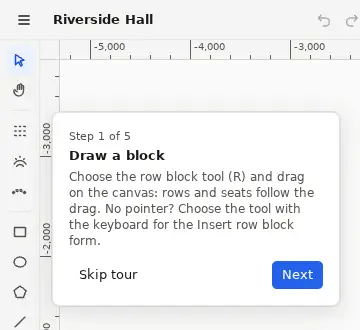
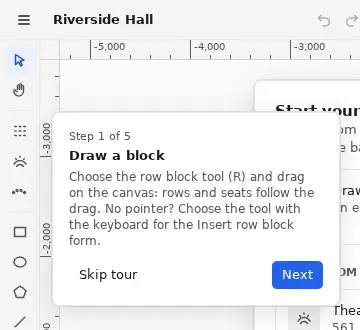
The designer guide starts charts from the New chart form and Start your chart; CON-005 done

diff --git a/apps/docs/designer/tasks.ts b/apps/docs/designer/tasks.ts
@@ -115,6 +115,20 @@ async function choose(t: Tab, name: string, option: string, within?: number): Pr
   await t.find({ role: "button", name: `${name} ${option}` }, within ?? (await inspector(t)));
 }
 
+/** A native select's option by its text, chosen as a person's choice would be, with its events. */
+async function select(t: Tab, id: number, option: string): Promise<void> {
+  await t.call(
+    id,
+    `function () {
+      const o = [...this.options].find((o) => o.text === ${JSON.stringify(option)});
+      if (!o) throw new Error(${JSON.stringify(`no option ${option}`)});
+      this.value = o.value;
+      this.dispatchEvent(new Event("input", { bubbles: true }));
+      this.dispatchEvent(new Event("change", { bubbles: true }));
+    }`,
+  );
+}
+
 /** Closes the notices in the corner, so pictures show only the designer. */
 async function quiet(t: Tab): Promise<void> {
   const region = (await t.all({ role: "region", name: "Cavea" }))[0];
@@ -214,6 +228,27 @@ export const TASKS: Task[] = [
       await t.enter({ role: "textbox", name: msg("charts.name") }, CHART.name, form);
       const key = await t.value(await t.find({ role: "textbox", name: msg("charts.key") }, form));
       check(key === CHART.key, `the key fills in as ${CHART.key}, not ${key}`);
+      // Start from: An empty chart unless changed; the templates and a reference image offered.
+      const start = await t.find({ role: "combobox", name: msg("charts.start") }, form);
+      const options = await t.call<string[]>(
+        start,
+        "function () { return [this.options[this.selectedIndex].text, ...[...this.options].map((o) => o.text)]; }",
+      );
+      const templates = [
+        msg("charts.startTemplate", { template: msg("template.theatre"), seats: "561" }),
+        msg("charts.startTemplate", { template: msg("template.arena"), seats: "1,680" }),
+        msg("charts.startTemplate", { template: msg("template.banquet"), seats: "156" }),
+      ];
+      check(
+        JSON.stringify(options) ===
+          JSON.stringify([
+            msg("charts.startBlank"),
+            msg("charts.startBlank"),
+            ...templates,
+            msg("charts.startImage"),
+          ]),
+        `Start from: ${JSON.stringify(options)}`,
+      );
       await shoot(t, "new-chart", await around(t, [form], 0));
       await t.click({ role: "button", name: msg("charts.create") }, form);
       await t.gone({ role: DIALOG });
@@ -234,6 +269,17 @@ export const TASKS: Task[] = [
       );
       await t.click({ role: "button", name: msg("tour.skip") }, tour);
       await t.gone({ role: "dialog", name: msg("tour.draw") });
+      // Start your chart, over the empty chart.
+      const panel = await t.find({ role: "region", name: msg("start.title") });
+      for (const name of [msg("new.empty"), msg("new.image")]) {
+        await t.find({ role: "button", name: new RegExp(`^${name}`) }, panel);
+      }
+      for (const id of ["theatre", "arena", "banquet"] as const) {
+        await t.find({ role: "button", name: new RegExp(`^${msg(`template.${id}`)} `) }, panel);
+      }
+      await t.find({ role: "button", name: msg("start.close") }, panel);
+      await t.find({ role: "button", name: msg("menu.open") }, panel);
+      await shoot(t, "start", await around(t, [panel], 16), 0.75);
     },
   },
   {
@@ -1149,31 +1195,48 @@ export const TASKS: Task[] = [
     },
   },
   {
-    name: "start.md: from a template: Open the designer, Theatre, Export chart file, Import chart file",
-    async run({ t, shoot, out }) {
+    name: "start.md: a chart from the Theatre template; Starting points…, Replace and undo; Export and Import chart file",
+    async run({ t, out }) {
+      const name = "Studio theatre";
       await t.goto(`${new URL(await t.evaluate<string>("location.href")).origin}/charts`);
-      await t.click({ role: "button", name: msg("charts.openDesigner") });
-      const theatre = await t.find(
-        { role: "button", name: new RegExp(`^${msg("template.theatre")} `) },
-        undefined,
-        30_000,
-      );
-      const empty = await t.find({ role: "button", name: new RegExp(`^${msg("new.empty")}`) });
-      const heading = await t.find({ role: "heading", name: msg("new.title") });
-      const banquet = await t.find({
-        role: "button",
-        name: new RegExp(`^${msg("template.banquet")} `),
+      await t.click({ role: "button", name: msg("charts.new"), nth: 0 });
+      const form = await t.find({ role: DIALOG, name: msg("charts.newTitle") });
+      await t.enter({ role: "textbox", name: msg("charts.name") }, name, form);
+      const theatre = msg("charts.startTemplate", {
+        template: msg("template.theatre"),
+        seats: "561",
       });
-      const image = await t.find({ role: "button", name: new RegExp(`^${msg("new.image")}`) });
-      await shoot(t, "start", await around(t, [heading, empty, image, theatre, banquet], 16), 0.75);
-      await t.click({ role: "button", name: new RegExp(`^${msg("template.theatre")} `) });
-      await t.find(
-        { role: "application", name: msg("canvas.label", { name: msg("template.theatre") }) },
-        undefined,
-        30_000,
+      await select(t, await t.find({ role: "combobox", name: msg("charts.start") }, form), theatre);
+      await t.click({ role: "button", name: msg("charts.create") }, form);
+      await t.gone({ role: DIALOG });
+      await t.click({ role: "link", name });
+      await t.click({ role: "link", name: msg("charts.open") });
+      await t.find({ role: "application", name: msg("canvas.label", { name }) }, undefined, 30_000);
+      const seats = (n: string) => (text: string) => text.includes(msg("status.seats", { n }));
+      await status(t, "561 seats", seats("561"));
+      check(
+        !(await t.has({ role: "region", name: msg("start.title") })),
+        "no starting points over a template",
       );
-      await t.click({ role: "button", name: msg("tour.skip") }).catch(() => undefined);
-      // What the browser saves, as the download would: the file's name and text.
+      // Menu, Starting points…, a template: asked first, replaced, one undo back.
+      const banner = await t.find({ role: "banner" });
+      await t.click({ role: "button", name: msg("menu.label") }, banner);
+      await t.find({ role: "menuitem", name: msg("menu.open") });
+      await t.click({ role: "menuitem", name: new RegExp(`^${msg("start.menu")}`) });
+      await t.click({ role: "button", name: new RegExp(`^${msg("template.banquet")} `) });
+      const ask = await t.find({
+        role: DIALOG,
+        name: msg("start.replaceTitle", { name, template: msg("template.banquet") }),
+      });
+      await t.click({ role: "button", name: msg("start.replace") }, ask);
+      await status(t, "156 seats", seats("156"));
+      await chord(t, "z", CTRL);
+      await status(t, "561 seats again", seats("561"));
+      await saveState(t, msg("save.saved"));
+      // Export chart file from the chart's menu on Charts: what the browser saves.
+      await t.click({ role: "button", name: msg("menu.label") }, banner);
+      await t.click({ role: "menuitem", name: msg("menu.console") });
+      await t.find({ role: "heading", name: msg("charts.title") });
       await t.evaluate(`(() => {
         const click = HTMLAnchorElement.prototype.click;
         const make = URL.createObjectURL;
@@ -1184,9 +1247,8 @@ export const TASKS: Task[] = [
           return click.call(this);
         };
       })()`);
-      const banner = await t.find({ role: "banner" });
-      await t.click({ role: "button", name: msg("menu.label") }, banner);
-      await t.click({ role: "menuitem", name: new RegExp(`^${msg("menu.export")}`) });
+      await t.click({ role: "button", name: msg("charts.menu", { name }) });
+      await t.click({ role: "menuitem", name: msg("charts.export") });
       const saved = await until("the chart file to be saved", () =>
         t
           .evaluate<{ name: string; text: string } | null>("window.saved ?? null")
@@ -1195,18 +1257,15 @@ export const TASKS: Task[] = [
       check(saved.name.endsWith(".json"), `the exported file ends in .json: ${saved.name}`);
       const file = join(out, saved.name);
       await Bun.write(file, saved.text);
-      await t.click({ role: "button", name: msg("menu.label") }, banner);
-      await t.click({ role: "menuitem", name: msg("menu.console") });
-      await t.find({ role: "heading", name: msg("charts.title") });
       await t.send("Page.setInterceptFileChooserDialog", { enabled: true });
       await t.click({ role: "button", name: msg("charts.import") });
       await pick(t, 'input[type=file][accept=".json,application/json"]', file);
       await t.send("Page.setInterceptFileChooserDialog", { enabled: false });
-      const form = await t.find({ role: DIALOG, name: msg("charts.importTitle") });
-      await t.enter({ role: "textbox", name: msg("charts.name") }, "Studio theatre", form);
-      await t.click({ role: "button", name: msg("charts.create") }, form);
+      const imported = await t.find({ role: DIALOG, name: msg("charts.importTitle") });
+      await t.enter({ role: "textbox", name: msg("charts.name") }, "Studio theatre copy", imported);
+      await t.click({ role: "button", name: msg("charts.create") }, imported);
       await t.gone({ role: DIALOG });
-      await t.find({ role: "link", name: "Studio theatre" });
+      await t.find({ role: "link", name: "Studio theatre copy" });
     },
   },
 ];

diff --git a/apps/console/src/console/Settings.tsx b/apps/console/src/console/Settings.tsx
@@ -378,7 +378,7 @@ function MembersTab() {
                     <tr>
                       {memberSort.header("email", complete(members))}
                       {memberSort.header("role", complete(members))}
-                      <th scope="col" class={th}>
+                      <th scope="col" class={`${th} whitespace-nowrap`}>
                         {msg("members.colTwoStep")}
                       </th>
                       <th scope="col" class={th}>

diff --git a/docs/TODO.md b/docs/TODO.md
@@ -324,7 +324,7 @@ Do not start a milestone until the previous one's exit criteria are met.
 - [x] **CON-002** First-run setup with a one-time link (09 §2). The logged link, `POST /console/api/setup`, one owner under a race, owner of every workspace (D-51); the `/console/setup` page takes the token from the fragment at start, removes it from the address bar, and lands the owner signed in
 - [x] **CON-003** Sign-in, sessions, CSRF, optional TOTP (09 §2, §10). Server: argon2id, `/console/api/session`, `me`, `password`, the `__Host-` cookie with idle and absolute ends, CSRF and origin checks on every cookie mutation (08 §11, D-50); the second factor and password reset (D-89, D-90). Console: sign-in (one message for a wrong email or password, `Retry-After` waited out) with its second step (a code from the app or a recovery code; a dead challenge back to the password with the email kept), sign-out, the session from `me` at start, a lost session sending the person to sign-in and back, the password change; the account page's two-step sign-in (turn on with a QR code of our own encoder and the key as text, D-92; recovery codes shown once with copy, download and print; turn off); the members screen's sign-in help (a reset link, optionally clearing the factor, shown once; resetting a member's factor; the server's refusals said); the reset link's page; the CSRF header and the dev proxy (09 §9). Not shown: who has a second factor on in the members list (the server's `WorkspaceMember` does not say)
 - [x] **CON-004** Roles and permission checks on every route (09 §2). The server side: every secret-key route takes a console session, names its workspace in `Cavea-Workspace` and declares one of twelve permissions, one per cell of 09 §2, checked against the five roles by the authorisation matrix (08 §11, D-54); ownership transfer is the members routes' `ownership`. The console shows only the sections and actions the role allows (from `me`'s permissions against each operation's `x-cavea-permission`; a test holds it to the document's roles), says why a disabled action is disabled, and shows a server's `403` `role` and re-reads `me`
-- [ ] **CON-005** Charts list with thumbnails, search, card menu, empty state (09 §3.1). Built: cards (name, key, seats and version when published, last edited, archived), search by name or key, sort by name or last edited, archived on request, empty, loading and error states, create, import from a chart file, and a card menu with export, duplicate and archive. Open in designer in the card menu (DSN-035). Thumbnails shown (the published version's, DSN-040; a placeholder without one). The empty state's starting points and **Start from** in **New chart** (templates, a reference image; D-95). Owed: events per chart on the card, which needs the server to count them (`events: {active, archived}` on each chart of `GET /v1/charts`, or a `total` on the events list; one request per card would stop at a page)
+- [x] **CON-005** Charts list with thumbnails, search, card menu, empty state (09 §3.1). Built: cards (name, key, seats and version when published, last edited, archived), search by name or key, sort by name or last edited, archived on request, empty, loading and error states, create, import from a chart file, and a card menu with export, duplicate and archive. Open in designer in the card menu (DSN-035). Thumbnails shown (the published version's, DSN-040; a placeholder without one). The empty state's starting points and **Start from** in **New chart** (templates, a reference image; D-95). Events per chart on the card and the chart page, linking to its Events tab, from the chart object's `events: {active, archived}`, which the server counts for every chart it returns (migration 10's index; 08 §6.2)
 - [ ] **CON-006** Chart detail: versions, events, settings (09 §3.2). Built: `/charts/{key}` from a card's name; the header (name, the key with a copy button, published version and seats, unpublished changes, archived); Versions (newest first, seats and date, the published one marked, "Create event" with the chart and version chosen); Events by the server's filter (`GET /v1/events?chart=`, paged, each linking to the event's page); Settings (the fixed key, archive with a confirmation). Open designer in the header (DSN-035). A version's author (**Published by**: the email to owners and admins while the publisher is a member, else what they were). Versions sort in the page once whole, Events by creation through the server (D-94). Owed: the diff link, which has no server support (`GET …/versions/{number}/diff`, SRV-036)
 - [ ] **CON-007** Events list and create form (09 §4.1). Built: the table (an event's name opens its page, CON-008) (name, key, chart and version, booked, held and free with a bar from the list's `counts`, created, status), paged with "load more", searched by key or name, filtered by chart and active or archived, and ordered oldest or newest first by the server (`q`, `chart`, `archived`, `order`), typing debounced, superseded requests cancelled, the view kept in the URL; archive with a confirmation; and the create form (key from the name, chart, version defaulting to the published one, hold lifetime, seats per hold token, session token and tokens per session, each with its unit and the server's limits; refusals on their fields). and the creation-date range (Created from, Created until: days in the person's time zone sent as instants, kept in the URL, an inverted range refused before sending; D-93). Open, waiting on the server: the orphan policy and public best-available on the create form, which 09 §4.1 lists but the server has no settings for (a later milestone's engine and API work), so the entry stays open
 - [x] **CON-008** Event manager, basic: live map, inspect, select, block, release, book (09 §4.2). `/events/{key}`, full window: the renderer in picker mode on a `customState` adapter that draws free seats available and the rest unavailable, any seat selectable (a seat is drawn available while selected); the true status in the tooltip, the selection list and the details (status, order reference, ticket type, hold expiry); Block, Unblock, Book (order reference) and Release (confirmed), all or nothing, refusals naming their seats with their status read again; live from the staff state route (manager frames: a snapshot, then the delta after its `seq` every 2 s, a snapshot after a gap, a bad frame or a restart; labels by `idx` read from the chart; D-82, replacing D-68's polling); roles followed (D-68). The full manager is CON-020 (modes, true statuses on the map, with the manager stream SRV-039), CON-021 (search), CON-028 (embedded)

diff --git a/apps/docs/content/designer/start.md b/apps/docs/content/designer/start.md
@@ -8,11 +8,12 @@ You need to be signed in to the console as an owner, an admin or an editor of yo
 
 1. In the console, open **Charts** and choose **New chart**.
 2. Type the chart's **Name**, as your staff call the room: "Riverside Hall", "Main auditorium". The **Key** fills in by itself. It is how your ticketing system names the chart and cannot be changed later, so keep it unless your developers asked for another.
+3. **Start from** says what the new chart starts with. Keep **An empty chart** to draw your venue yourself, as this guide does. The other choices are the three templates ([Starting from a template or a file](#starting-from-a-template-or-a-file)) and **A reference image**, a floor plan to trace ([Trace a floor plan](#trace-a-floor-plan)).
 
-   ![The New chart form, with the name Riverside Hall and the key riverside-hall](../images/designer-new-chart.webp)
+   ![The New chart form, with the name Riverside Hall, the key riverside-hall, and Start from set to An empty chart](../images/designer-new-chart.webp)
 
-3. Choose **Create chart**. The chart appears in the list.
-4. Choose the chart's name, then **Open in designer**. The designer opens on an empty canvas, and a short tour starts.
+4. Choose **Create chart**. The chart appears in the list.
+5. Choose the chart's name, then **Open in designer**. The designer opens on an empty canvas, with **Start your chart** over it, and a short tour starts.
 
 ## The tour
 
@@ -22,13 +23,21 @@ The tour has five steps, each pointing at the part of the screen it talks about:
 
 The tour shows once in each browser. To see it again, press `Ctrl`+`K` (`⌘`+`K` on a Mac), type "tour" and choose **Show the designer tour**.
 
+## Start your chart
+
+Over an empty chart, **Start your chart** offers the ways to begin: **Draw from scratch**, **Place a reference image**, and, under **Start from a template**, **Theatre**, **Arena bowl** and **Banquet**. It is not in the way: the tools and the tour still work around it, and it goes away by itself as soon as you choose a drawing tool or draw something. **Draw from scratch**, or the cross (**Close the starting points**), closes it.
+
+![Start your chart over an empty chart: draw from scratch, place a reference image, or start from a template](../images/designer-start.webp)
+
+To see the starting points again later, open the **Menu** at the top left and choose **Starting points…**.
+
 ## Trace a floor plan
 
 Most venues already have a floor plan: an architect's drawing, a fire plan, a scan of the old seating plan. Put it under your chart and draw the seats on top of it, so the chart matches the room.
 
 The plan needs to be a picture file: PNG, JPEG or WebP. If you have a PDF, open it and take a screenshot of the page, or export it as a picture. A clear, straight scan is enough.
 
-1. Choose the **Image tool** at the bottom of the tools on the left (or press `I`) and pick the picture file.
+1. Choose the **Image tool** at the bottom of the tools on the left (or press `I`), or **Place a reference image** in **Start your chart**, and pick the picture file. If you chose **A reference image** for **Start from**, the designer opens on the new chart with **Start your chart**: choose **Place a reference image** there.
 2. The picture appears on the canvas, selected, and the **Inspector** on the right shows it. While it uploads, the bar at the bottom says **Pictures uploading: 1**; wait until that goes.
 3. Tick **Locked** in the inspector, so that clicking and dragging on the canvas while you draw never moves the picture.
 
@@ -57,16 +66,13 @@ You can also leave the picture as it is and change the block's **Seat pitch** an
 
 ## Starting from a template or a file
 
-The designer has three ready-made charts to start from: a theatre, an arena bowl and a banquet room. They are offered only in the designer's own window, not when you open a chart from the console. To use one:
+### From a template
 
-1. In **Charts**, choose **Open the designer**. The designer opens with **New chart** and its starting points: **Draw from scratch**, **Place a reference image**, and under **Start from a template**, **Theatre**, **Arena bowl** and **Banquet**.
+The designer has three ready-made charts: a theatre (561 seats in curved stalls around a stage), an arena bowl (1,680 seats in 40 sections around a floor) and a banquet room (156 seats at long tables and a head table). A template is an ordinary chart: rename its sections, add or remove rows, change its categories, as on any chart you draw.
 
-   ![The New chart screen: draw from scratch, place a reference image, or start from a template](../images/designer-start.webp)
+- **For a new chart:** in **New chart**, choose the template for **Start from**, such as **Theatre template (561 seats)**, then **Create chart**. The chart is made with the template's seats; open it in the designer as above.
+- **For a chart already made:** while it is empty, choose the template in **Start your chart**. Otherwise open the **Menu**, choose **Starting points…** and choose the template: the designer asks first, since everything on the chart is replaced by the template. Choose **Replace**. One undo (`Ctrl`+`Z`) brings back what was there.
 
-2. Choose a template. It opens as a chart you can change.
-3. Open the **Menu** at the top left and choose **Export chart file**. Your browser saves a file ending in `.json`.
-4. Go back to **Charts** (the **Menu**'s **Back to console**), choose **Import chart file** and pick the file. Give the chart a **Name** and choose **Create chart**.
+### From a chart file
 
-The same **Import chart file** opens a chart someone exported from another Cavea workspace. Charts from other seating systems cannot be imported.
-
-> **Warning** A chart drawn after **Open the designer** is saved nowhere until you export it: close the window first and it is gone. Import it into **Charts** as soon as you have the start you want, and do the rest of the work there, where it is saved as you go ([Saving](saving.md)).
+Choose **Import chart file** on **Charts** and pick a chart file, then give the chart a **Name** and choose **Create chart**. A chart file is what **Export chart file** saves, in the designer's **Menu** or a chart's menu on **Charts**: use it to bring a chart from another Cavea workspace or server. To put a chart file's contents into a chart you have already made, open it in the designer and choose **Open chart file…** at the bottom of **Start your chart** (or in the **Menu**); on a chart that is not empty, it asks first, as a template does. Charts from other seating systems cannot be imported.
